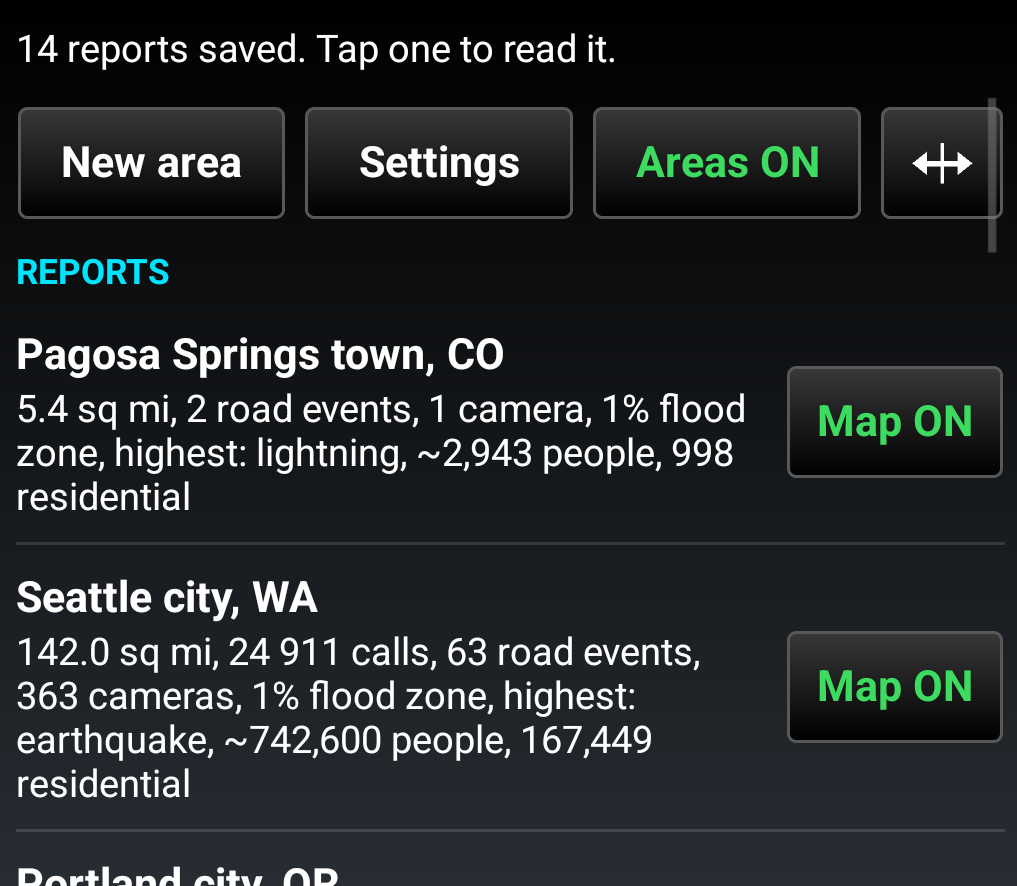
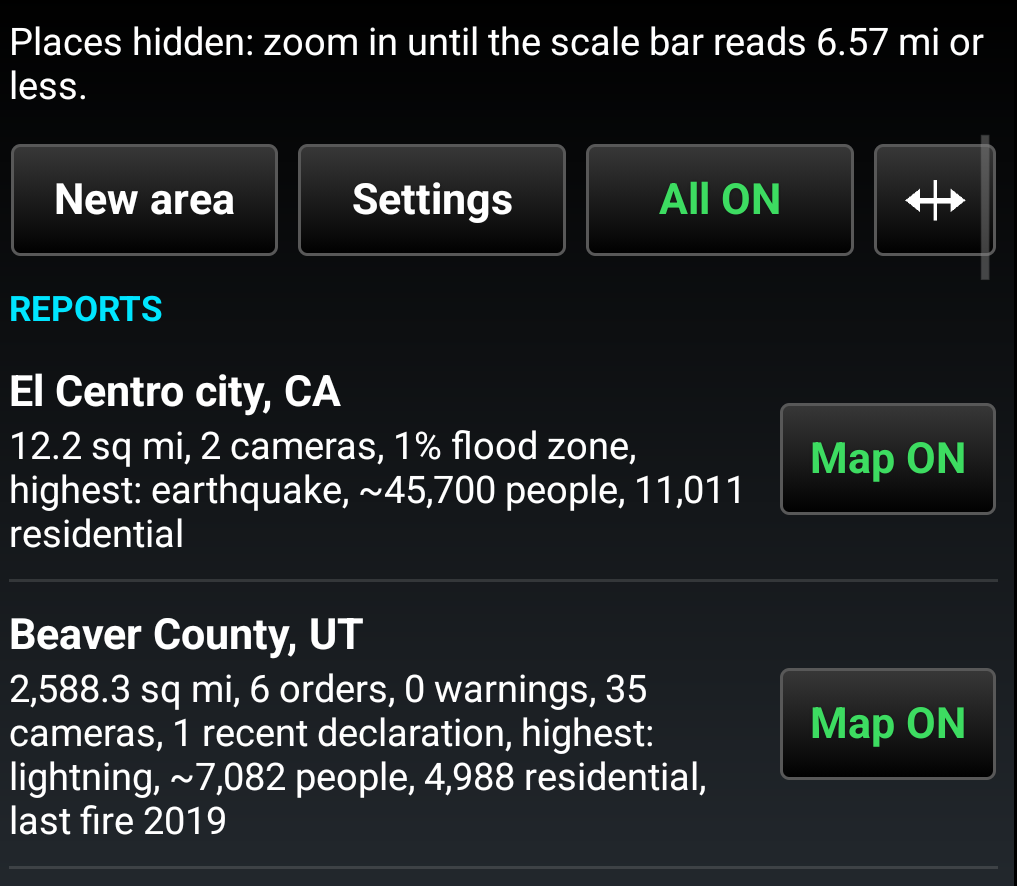
Sit Rep 0.8: All ON/OFF replaces the Areas switch
Areas hid every report outline while each report still read Map ON, so
El Centro drew no boundary on the S22 with nothing on screen saying why.
All ON/OFF now sets every report's own Map switch (outline and places);
with some on it reads 'All: 14 of 18' and a tap turns them all on. The
stored sitrep.areasVisible preference is no longer read.

Version 0.8; guide, manual text and main-screen picture updated.

Changed region(s): [[0.0, 0.0305, 1.0, 1.0], [0.0, 0.9752, 0.3353, 1.0]]

diff --git a/app/src/main/java/com/atakmap/android/sitrep/SitRepManager.java b/app/src/main/java/com/atakmap/android/sitrep/SitRepManager.java
@@ -43,7 +43,6 @@ import java.util.concurrent.ThreadFactory;
 public final class SitRepManager {
 
     private static final String TAG = "SitRep";
-    private static final String PREF_AREAS = "sitrep.areasVisible";
     public static final String PREF_NEARBY = "sitrep.nearbyMi";
     /** The places zoom gate: the scale bar's reading in meters, -1 for Always. */
     public static final String PREF_GATE = "sitrep.placesGateBarM";
@@ -118,7 +117,7 @@ public final class SitRepManager {
                         reports.clear();
                         reports.addAll(fromDisk);
                         loaded = true;
-                        outlines.sync(reports, areasVisible());
+                        outlines.sync(reports);
                         places.sync(reports);
                         changed();
                     }
@@ -167,13 +166,29 @@ public final class SitRepManager {
         return refreshing.contains(r.id + "/" + key);
     }
 
-    public boolean areasVisible() {
-        return prefs.getBoolean(PREF_AREAS, true);
+    /** How many saved reports have their Map switch ON. */
+    public int reportsOnMap() {
+        int n = 0;
+        for (Report r : reports)
+            if (r.onMap)
+                n++;
+        return n;
     }
 
-    public void setAreasVisible(boolean on) {
-        prefs.edit().putBoolean(PREF_AREAS, on).apply();
-        outlines.sync(reports, on);
+    /**
+     * The main screen's All ON/OFF: sets every report's own Map switch. It replaced
+     * an Areas switch over the outlines only, which hid a boundary while the report
+     * read Map ON (operator, 2026-11-25).
+     */
+    public void setAllOnMap(boolean on) {
+        for (Report r : reports) {
+            if (r.onMap == on)
+                continue;
+            r.onMap = on;
+            save(r);
+        }
+        outlines.sync(reports);
+        places.sync(reports);
         changed();
     }
 
@@ -386,7 +401,7 @@ public final class SitRepManager {
             r.onMap = true;
         save(r);
         if (wasOff)
-            outlines.sync(reports, areasVisible());
+            outlines.sync(reports);
         places.sync(reports);
         changed();
     }
@@ -461,7 +476,7 @@ public final class SitRepManager {
         reports.add(0, r);
         save(r);
         saveIndex();
-        outlines.sync(reports, areasVisible());
+        outlines.sync(reports);
         for (Section s : Sections.all())
             run(r, s);
         changed();
@@ -598,7 +613,7 @@ public final class SitRepManager {
             return;
         r.label = Report.cleanLabel(typed);
         save(r);
-        outlines.sync(reports, areasVisible());
+        outlines.sync(reports);
         changed();
     }
 
@@ -608,7 +623,7 @@ public final class SitRepManager {
             return;
         r.onMap = on;
         save(r);
-        outlines.sync(reports, areasVisible());
+        outlines.sync(reports);
         // Off takes everything of this report off the map; its place switches are
         // kept, so On brings back the same layers (operator, 2026-11-13).
         places.sync(reports);
@@ -628,7 +643,7 @@ public final class SitRepManager {
             }
         });
         saveIndex();
-        outlines.sync(reports, areasVisible());
+        outlines.sync(reports);
         places.sync(reports);
         changed();
     }

diff --git a/app/src/main/java/com/atakmap/android/sitrep/ui/SitRepPane.java b/app/src/main/java/com/atakmap/android/sitrep/ui/SitRepPane.java
@@ -52,7 +52,7 @@ public final class SitRepPane {
     private final TextView status;
     private final ListView list;
     private final View settingsPage, reportPage;
-    private final Button drawButton, areasButton;
+    private final Button drawButton, allButton;
     private final LinearLayout settingsContainer, reportSections;
     private final TextView reportTitle, reportAbout;
     private final ScrollView reportScroll;
@@ -86,7 +86,7 @@ public final class SitRepPane {
 
         final View header = PluginLayoutInflater.inflate(plugin, R.layout.controls_header, null);
         drawButton = header.findViewById(R.id.btn_draw);
-        areasButton = header.findViewById(R.id.btn_areas);
+        allButton = header.findViewById(R.id.btn_all);
         list.addHeaderView(header, null, false);
         list.setAdapter(adapter);
         list.setOnItemClickListener(new AdapterView.OnItemClickListener() {
@@ -117,10 +117,12 @@ public final class SitRepPane {
                 showSettings();
             }
         });
-        areasButton.setOnClickListener(new View.OnClickListener() {
+        allButton.setOnClickListener(new View.OnClickListener() {
             @Override
             public void onClick(View v) {
-                manager.setAreasVisible(!manager.areasVisible());
+                // All on: tap turns all off. Some or none on: tap turns all on.
+                final int n = manager.reports().size();
+                manager.setAllOnMap(n == 0 || manager.reportsOnMap() < n);
             }
         });
         root.findViewById(R.id.btn_settings_back).setOnClickListener(new View.OnClickListener() {
@@ -337,7 +339,7 @@ public final class SitRepPane {
             drawButton.setText(R.string.draw_area);
             drawButton.setTextColor(0xFFFFFFFF);
         }
-        setState(areasButton, "Areas", manager.areasVisible());
+        paintAll();
         shown = manager.reports();
         adapter.notifyDataSetChanged();
         if (nearbyFold != null)
@@ -1049,6 +1051,18 @@ public final class SitRepPane {
         }
     }
 
+
+    /** All ON when every report is on the map, All OFF when none is, else how many. */
+    private void paintAll() {
+        final int n = manager.reports().size();
+        final int on = manager.reportsOnMap();
+        allButton.setEnabled(n > 0);
+        if (n > 0 && on > 0 && on < n) {
+            allButton.setText("All: " + on + " of " + n);
+            allButton.setTextColor(0xFFFFFFFF);
+        } else
+            setState(allButton, "All", n > 0 && on == n);
+    }
 
     private static void setState(Button b, String thing, boolean on) {
         b.setText(thing + (on ? " ON" : " OFF"));

diff --git a/app/src/main/java/com/atakmap/android/sitrep/AreaOutlines.java b/app/src/main/java/com/atakmap/android/sitrep/AreaOutlines.java
@@ -72,8 +72,8 @@ public final class AreaOutlines {
         return g;
     }
 
-    /** Makes the map match the reports: one outline each, shown when Areas and its own switch are ON. */
-    void sync(List<Report> reports, boolean visible) {
+    /** Makes the map match the reports: one outline each, shown when its Map switch is ON. */
+    void sync(List<Report> reports) {
         try {
             final MapGroup g = group();
             final Map<String, Report> want = new HashMap<>();
@@ -88,10 +88,10 @@ public final class AreaOutlines {
                 }
                 if (!r.name().equals(it.getTitle()))
                     it.setTitle(r.name());
-                it.setVisible(visible && r.onMap);
+                it.setVisible(r.onMap);
             }
             for (Report r : want.values())
-                g.addItem(outline(g, r, visible && r.onMap));
+                g.addItem(outline(g, r, r.onMap));
         } catch (LinkageError | RuntimeException e) {
             Log.w(TAG, "could not draw the report areas: " + e);
         }

diff --git a/docs/USER_GUIDE.md b/docs/USER_GUIDE.md
@@ -44,10 +44,12 @@ the SITREP icon (a clipboard, binoculars and a radio).
 - **New area** makes a report.
 - **Settings** holds the Nearby distance, the zoom at which places show, and
   the map key.
-- **Areas ON / OFF** shows or hides the outlines of saved reports on the map.
+- **All ON / OFF** turns every report's Map switch on or off at once. When
+  only some are on, it shows how many (All: 2 of 5); a tap turns them all on.
 - The arrows button makes the pane wide or half width.
 - **Reports** lists every saved report, newest first, with its main numbers.
-  **Map ON / OFF** on a row shows or hides that report on the map.
+  **Map ON / OFF** on a row shows or hides that report on the map: its
+  outline and its places.
 - Tap a report to read it.
 
 ## Make a report
